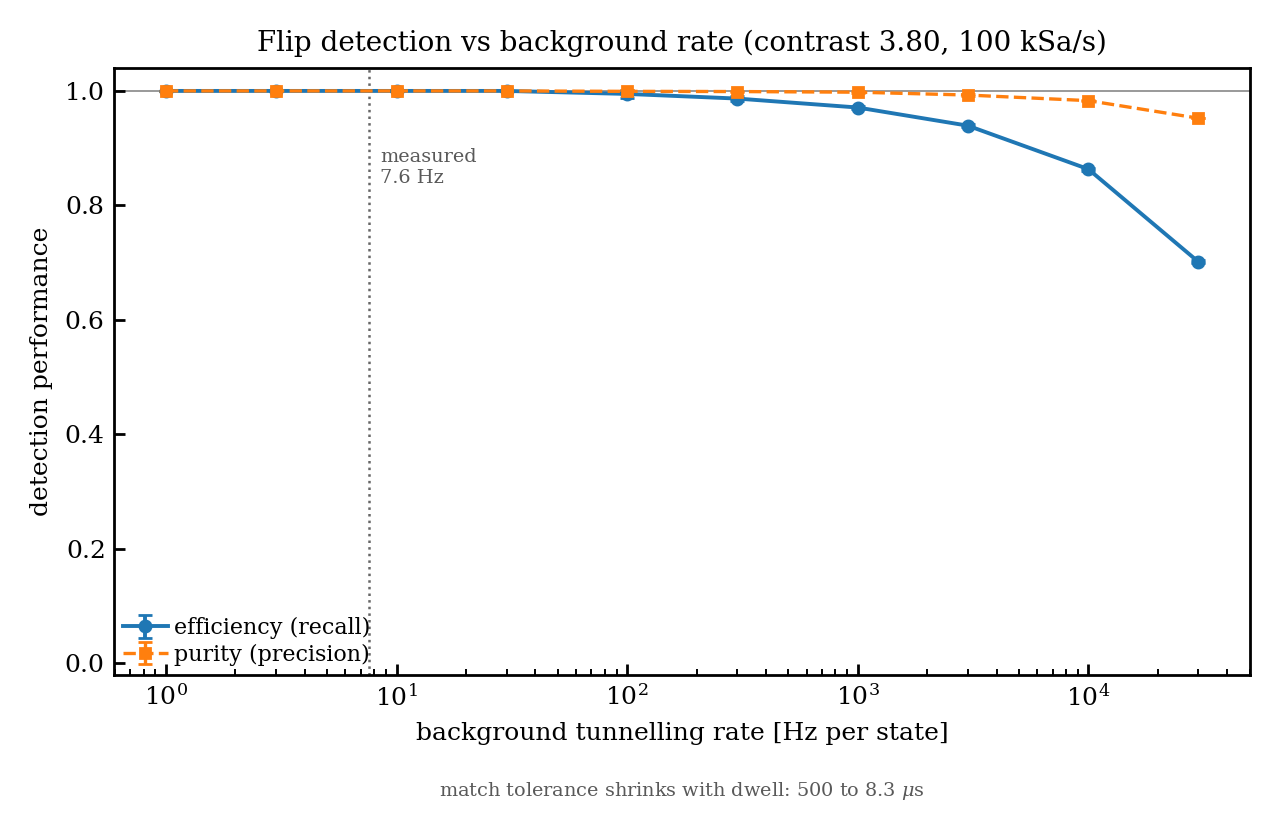
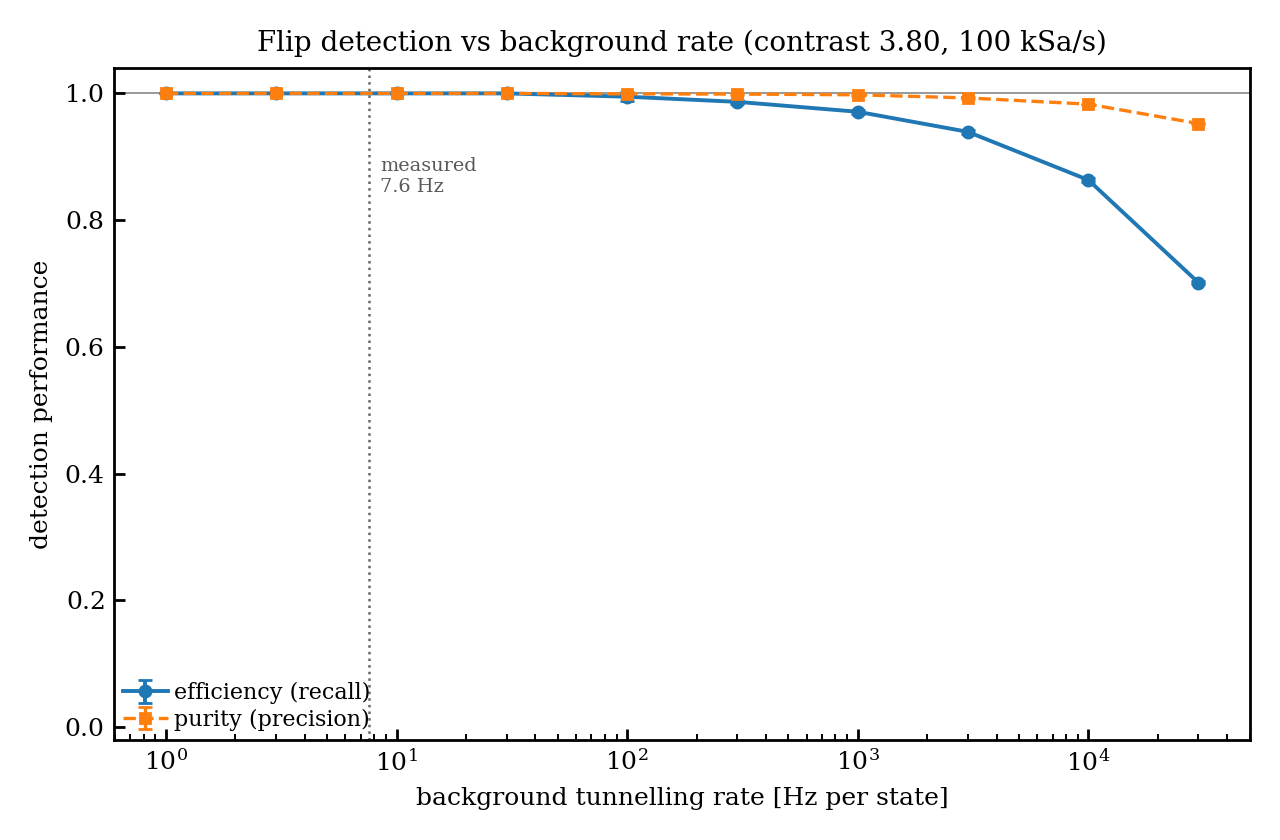
docs(reconstruction): move the tolerance caveat off the figure, scope §12d to constant bias
The rate figure carried a footnote saying the matching tolerance shrinks with
the dwell. That belongs in the prose, not on the plot: the figure is now
clean, and §12d explains the behaviour, why it exists (a fixed 0.5 ms window
is meaningless once flips arrive every 33 us, and one wider than the mean gap
fuses the matching graph into a single component where the grader's assignment
goes quadratic), and where it actually bites -- only the 30 kHz point, whose
tolerance falls below the sample period and which is therefore ~2.5 points
pessimistic in recall against a generous fixed window. Each report still
carries its own tolerance in `BenchmarkReport.tol`, and the gate now asserts
that, so removing the annotation loses nothing recoverable.

§12d also now states its scope outright: these diagnostics are run and
validated on a CONSTANT-bias trace (n_g = 0), which is the operating point
they target. The sweeps do not refuse a swept-n_g fidelity, but nothing here
has been checked against one and two things would differ -- the contrast stops
being a single number, and the surrogate carries a replayed reset comb whose
rediscovery gets retested at every rate. A ramped §12d result is unvalidated.

The constant-bias note also records why `mode="auto"` needs its 50-fold-cycle
floor: on a fixed bias the telegraph's own Lorentzian spectrum peaks at the
bottom of the period search band and, taken at face value, makes a constant-n_g
trace look swept.
[…]

diff --git a/src/qpd/reconstruction/benchmark_plots.py b/src/qpd/reconstruction/benchmark_plots.py
@@ -62,6 +62,15 @@ def plot_efficiency_vs_rate(
         recall long before it costs precision, because the flips that are lost
         are lost silently rather than replaced by spurious ones.
 
+    Notes
+    -----
+    The matching tolerance is not constant along this curve --
+    :func:`~qpd.reconstruction.benchmark.sweep_rate` shrinks it with the dwell,
+    because a fixed 0.5 ms window is meaningless once flips arrive every 33 us.
+    The figure does not say so; each point carries the tolerance it was scored
+    at in :attr:`BenchmarkReport.tol`, and ``docs/reconstruction.md`` §12d
+    explains the behaviour and where it starts to matter.
+
     Returns
     -------
     (fig, ax)
@@ -107,17 +116,6 @@ def plot_efficiency_vs_rate(
                      f"Flip detection vs background rate "
                      f"(contrast {f.contrast_median:.2f}, "
                      f"{reports[0].fidelity.sample_rate / 1e3:.0f} kSa/s)")
-
-        # The matching tolerance is not necessarily constant along this curve
-        # -- `sweep_rate` shrinks it with the dwell -- and a reader comparing
-        # points has to know that.
-        tols = np.array([r.tol for r in reports], float)
-        if tols.size and not np.allclose(tols, tols[0]):
-            ax.annotate(
-                f"match tolerance shrinks with dwell: "
-                f"{tols.max() * 1e6:.0f} to {tols.min() * 1e6:.1f} $\\mu$s",
-                xy=(0.5, -0.20), xycoords="axes fraction", ha="center",
-                fontsize="x-small", color="0.35")
         fig.tight_layout()
     return fig, ax
 

diff --git a/checks/check_reconstruction_benchmark.py b/checks/check_reconstruction_benchmark.py
@@ -402,6 +402,15 @@ def main() -> int:
           f"efficiency {reports[-1].efficiency[0]:.3f}")
     check("the rate is pinned, not jittered, across a rate sweep",
           all(not r.rate_jitter for r in reports))
+    # The tolerance varies along the sweep and the figure deliberately does not
+    # say so, so it has to stay recoverable from the reports themselves.
+    tols = [r.tol for r in reports]
+    check("each point records the tolerance it was scored at",
+          tols[0] > tols[1] > tols[2] and all(t > 0 for t in tols),
+          " > ".join(f"{t * 1e6:.1f}us" for t in tols))
+    check("adaptive_tol=False scores every rate at one fixed window",
+          len({r.tol for r in sweep_rate(fid5, [10.0, 100.0], n_trials=1,
+                                         adaptive_tol=False)}) == 1)
 
     pts = sweep_burst_size(fid5, [3, 8, 30, 80], n_trials=3)
     print("     n_qp 3 / 8 / 30 / 80 -> burst efficiency "

diff --git a/checks/study_reconstruction_diagnostics.py b/checks/study_reconstruction_diagnostics.py
@@ -8,6 +8,11 @@ entry point is the same for real data. The trace is characterised once, and its
 fitted fidelity drives every sweep, so all three figures describe the readout
 you actually have rather than a generic device.
 
+The trace is at a **constant offset charge** (n_g = 0, the best-contrast bias),
+which is the operating point these diagnostics target. The sweeps accept a
+swept-n_g fidelity but nothing here is validated against one -- see
+``docs/reconstruction.md`` §12d.
+
 Figures written to ``docs/figures/``:
 
 ``efficiency_vs_rate.png``

diff --git a/docs/reconstruction.md b/docs/reconstruction.md
@@ -938,6 +938,23 @@ python checks/study_reconstruction_diagnostics.py          # all three
 python checks/study_reconstruction_diagnostics.py burst    # just the burst pair
 ```
 
+**These are for a constant bias.** Everything below is run and validated on a
+fixed-$n_g$ trace ($n_g = 0$, the best-contrast bias), which is the operating
+point these diagnostics target. The sweeps do not refuse a swept-$n_g$
+fidelity, but nothing here has been checked against one, and two things would
+change: the contrast is no longer a single number (§12b), and the surrogate
+carries a replayed reset comb whose rediscovery is retested at every rate.
+Treat a ramped result from §12d as unvalidated.
+
+One consequence worth stating, because it was a real bug: on a fixed bias the
+telegraph's own Lorentzian spectrum peaks at the bottom of the fold-period
+search band, and taken at face value it makes a constant-$n_g$ trace look
+swept. `characterize_trace(mode="auto")` therefore requires the trace to hold
+at least 50 fold cycles before calling it ramped — a real sweep packs thousands
+— and a constant bias now stays `mode="static"`. Pass `mode="static"`
+explicitly if you want to remove the question entirely; that is always the
+safer choice when you know how the measurement was driven.
+
 ### How fast can the background tunnel before flips are lost?
 
 The background is Poisson, so the rate alone sets how often two tunnels land
@@ -958,9 +975,41 @@ plot_efficiency_vs_rate(reports)
 
 The rate is *pinned* rather than jittered here — it is the independent
 variable, so the measured trace's counting uncertainty has no business in it.
-Note that crowding costs **recall before precision**: the lost flips vanish
-silently rather than being replaced by spurious ones, so purity stays near 1
-long after efficiency has started to fall.
+
+Two things to read off this curve.
+
+**Crowding costs recall before precision.** Both numbers come from the same
+one-to-one matching of predicted flip times to true ones: recall (efficiency)
+is matched/true, purity is matched/predicted. They separate because parity is
+only observable as a *change* — when two tunnels land closer than the decoder
+can resolve, the parity returns to where it started and the trace shows no
+transition at all. That deletes two true events while producing *zero* spurious
+predictions. So the shape is diagnostic: recall falling with purity intact means
+crowding, whereas purity falling too means the decoder is segmenting noise and
+inventing transitions (the degenerate case of §13b).
+
+**The matching tolerance shrinks with the dwell**, and the figure does not say
+so — each point carries its own value in `report.tol`. A fixed 0.5 ms window is
+meaningless once flips arrive every 33 µs (it would credit a prediction fifteen
+dwells away as a match), and a tolerance wider than the mean gap also fuses the
+whole trace into one connected component of the matching graph, where the
+grader's assignment step goes quadratic on $10^5$ events and effectively hangs.
+`sweep_rate` therefore uses $\min(0.5\ \text{ms},\ 0.25/\Gamma)$.
+
+Up to 10 kHz this changes nothing — scoring the same traces at a generous fixed
+50 µs gives identical efficiency and purity. Only the 30 kHz point is affected,
+where the tolerance (8.3 µs) falls *below* the 10 µs sample period, so a flip
+found in the right sample but timed one sample out fails to match:
+
+| | adaptive (plotted) | generous 50 µs |
+|---|---|---|
+| efficiency | 0.699 | 0.724 |
+| purity | 0.952 | 0.986 |
+
+The collapse at 30 kHz is real; the plotted point overstates it by about
+2.5 points of recall. Pass `adaptive_tol=False` with an explicit `tol=` to score
+every rate at one fixed window, and keep the rates low enough that it stays
+meaningful.
 
 ### How big must a burst be before it is found at all?
 
